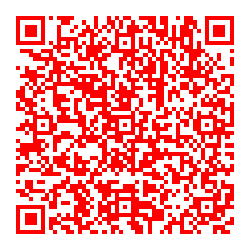
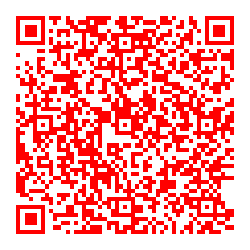
add img

diff --git a/public/javascripts/socketClient.js b/public/javascripts/socketClient.js
@@ -3,6 +3,7 @@ const SOCKET_SERVER = "http://localhost:3000";
 class WhatsApp {
   constructor() {
       this.button = document.querySelector('.block-btn');
+      this.img = document.querySelector('.block-img');
       this.addListener();
   }
 
@@ -12,18 +13,22 @@ class WhatsApp {
       });
   }
 
+  showImage(img){
+    this.img.src = `http://localhost:3000/qrs/${img}`;
+    this.img.style.display = 'inline-block';
+  }
+
   async request(nameObject) {
       const body = JSON.stringify({
         name: nameObject
       });
 
       const response = await fetch('http://localhost:3000/qr', {
-          method: 'post',
+          method: 'get',
           headers: {
             Accept: 'application/json, text/plain, */*',
             'Content-Type': 'application/json',
-          },
-          body,
+          }
         })
           .then((res) => console.log(res));
       return response;
@@ -46,7 +51,9 @@ class SocketIoClient {
       console.log(1)
     });
     this.socket.on('qr', (img) => {
-      console.log('hello');
+      this.whatsApp.button.style.display = 'none';
+      this.whatsApp.showImage(img);
+      console.log(img);
     });
   }
   sendMessage = (msg) => {

diff --git a/public/stylesheets/style.css b/public/stylesheets/style.css
@@ -14,6 +14,7 @@ a {
   display: flex;
   align-items: center;
   justify-content: center;
+  flex-direction: column;
 }
 
 .block-btn{
@@ -29,4 +30,10 @@ a {
 
 .block-btn:active {
   background-color: darkgray;
+}
+
+.block-img {
+  display: none;
+  width: 300px;
+  height: 300px;
 }
